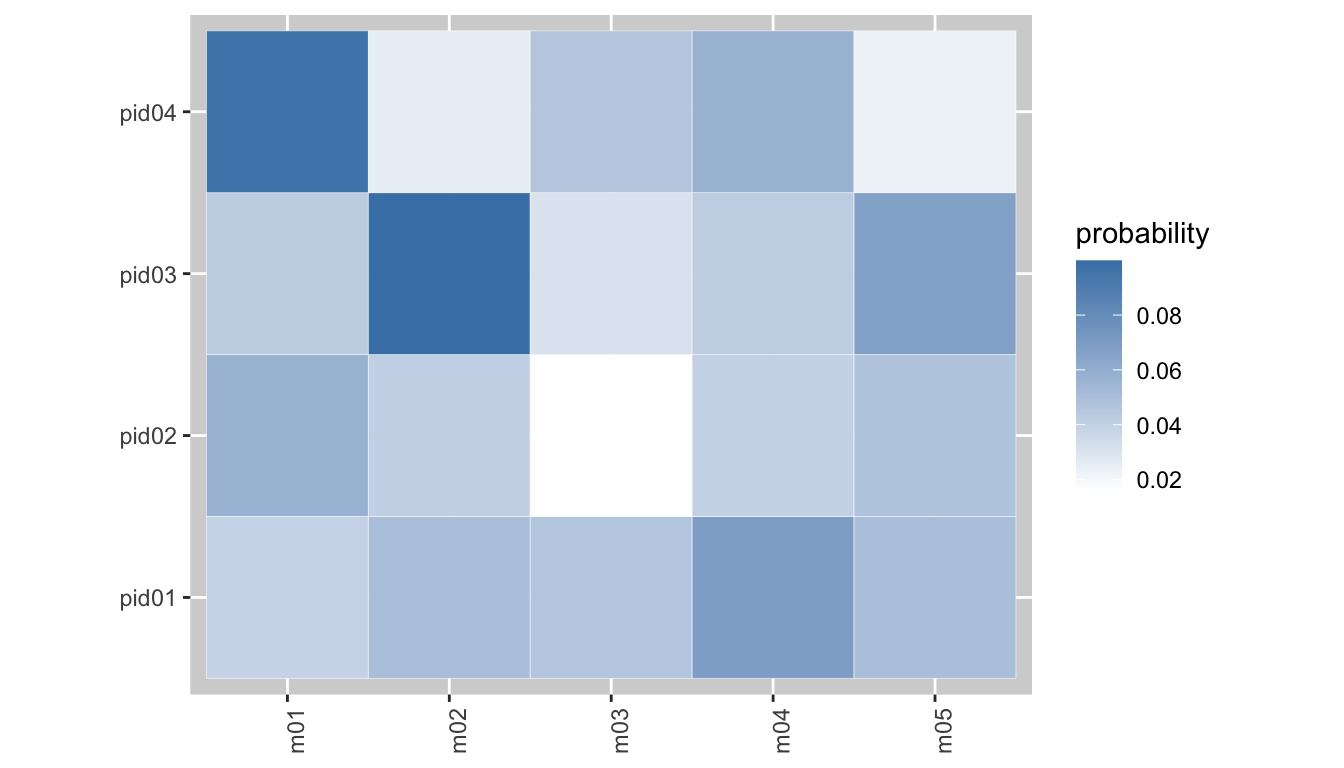
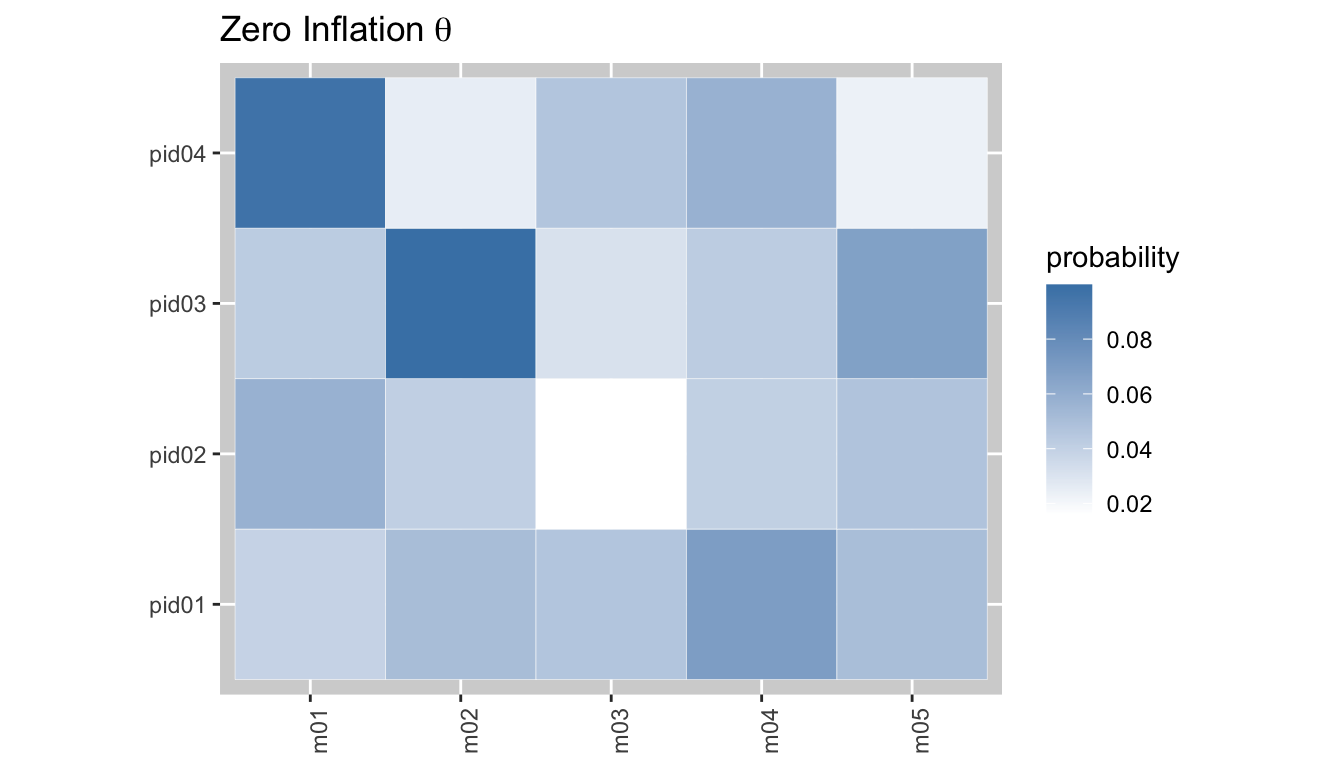
added RcppParallel and updated website

Changed region(s): [[0.0938, 0.0, 0.9062, 1.0]]

diff --git a/docs/index.html b/docs/index.html
@@ -84,15 +84,12 @@
 <a href="#goal" class="anchor"></a>Goal</h2>
 <p>Regression analysis with multivariate outcomes for mass cytometry experiments.</p>
 </div>
-<div id="reproducible-research" class="section level2">
-<h2 class="hasAnchor">
-<a href="#reproducible-research" class="anchor"></a>Reproducible Research</h2>
-<p>We created a simplified interactive R Markdown on binder for our <a href="https://arxiv.org/abs/1903.07976">paper</a>. You can reproduce our major findings, figures, and further explore the <code>rstan</code> object by starting an interactive RStudio session <a href="https://mybinder.org/v2/gh/ChristofSeiler/cytoeffect_binder/master?urlpath=rstudio">here</a>. The full analyses are available in <a href="http://christofseiler.github.io/cytoeffect/articles/">Articles</a>.</p>
-</div>
 <div id="installation" class="section level2">
 <h2 class="hasAnchor">
 <a href="#installation" class="anchor"></a>Installation</h2>
-<p>Our R package is available from github:</p>
+<p>Before you can install <code>cytoeffect</code>, you will need to install the package <code>rstan</code> including the C++ Toolchain. Here are instructions for all main platforms:</p>
+<p><a href="https://github.com/stan-dev/rstan/wiki/RStan-Getting-Started" class="uri">https://github.com/stan-dev/rstan/wiki/RStan-Getting-Started</a></p>
+<p>Then, you can install <code>cytoeffect</code>:</p>
 <div class="sourceCode" id="cb1"><pre class="r"><span class="fu"><a href="https://rdrr.io/r/utils/install.packages.html">install.packages</a></span>(<span class="st">"devtools"</span>)
 <span class="kw pkg">devtools</span><span class="kw ns">::</span><span class="fu"><a href="https://devtools.r-lib.org//reference/remote-reexports.html">install_github</a></span>(<span class="st">"ChristofSeiler/cytoeffect"</span>)</pre></div>
 </div>
@@ -134,7 +131,6 @@
 <li><a href="https://travis-ci.com/ChristofSeiler/cytoeffect"><img src="https://travis-ci.com/ChristofSeiler/cytoeffect.svg?branch=master" alt="build status"></a></li>
 <li><a href="https://github.com/ChristofSeiler/cytoeffect/actions"><img src="https://github.com/ChristofSeiler/cytoeffect/workflows/R-CMD-check/badge.svg" alt="R build status"></a></li>
 <li><a href="https://codecov.io/gh/ChristofSeiler/cytoeffect?branch=master"><img src="https://codecov.io/gh/ChristofSeiler/cytoeffect/branch/master/graph/badge.svg" alt="Codecov test coverage"></a></li>
-<li><a href="https://mybinder.org/v2/gh/ChristofSeiler/cytoeffect_binder/master?urlpath=rstudio"><img src="http://mybinder.org/badge_logo.svg" alt="binder"></a></li>
 </ul>
 </div>
 </div>

diff --git a/docs/articles/cytoeffect.html b/docs/articles/cytoeffect.html
@@ -76,7 +76,7 @@
       <h1 data-toc-skip>cytoeffect Workflow</h1>
                         <h4 class="author">Christof Seiler</h4>
             
-            <h4 class="date">2020-06-02</h4>
+            <h4 class="date">2020-06-03</h4>
       
       <small class="dont-index">Source: <a href="https://github.com/ChristofSeiler/cytoeffect/blob/master/vignettes/cytoeffect.Rmd"><code>vignettes/cytoeffect.Rmd</code></a></small>
       <div class="hidden name"><code>cytoeffect.Rmd</code></div>
@@ -133,8 +133,8 @@
 <span class="co">#&gt; </span>
 <span class="co">#&gt; SAMPLING FOR MODEL 'poisson' NOW (CHAIN 1).</span>
 <span class="co">#&gt; Chain 1: </span>
-<span class="co">#&gt; Chain 1: Gradient evaluation took 0.001384 seconds</span>
-<span class="co">#&gt; Chain 1: 1000 transitions using 10 leapfrog steps per transition would take 13.84 seconds.</span>
+<span class="co">#&gt; Chain 1: Gradient evaluation took 0.001352 seconds</span>
+<span class="co">#&gt; Chain 1: 1000 transitions using 10 leapfrog steps per transition would take 13.52 seconds.</span>
 <span class="co">#&gt; Chain 1: Adjust your expectations accordingly!</span>
 <span class="co">#&gt; Chain 1: </span>
 <span class="co">#&gt; Chain 1: </span>
@@ -151,9 +151,9 @@
 <span class="co">#&gt; Chain 1: Iteration: 1160 / 1200 [ 96%]  (Sampling)</span>
 <span class="co">#&gt; Chain 1: Iteration: 1200 / 1200 [100%]  (Sampling)</span>
 <span class="co">#&gt; Chain 1: </span>
-<span class="co">#&gt; Chain 1:  Elapsed Time: 104.653 seconds (Warm-up)</span>
-<span class="co">#&gt; Chain 1:                336.789 seconds (Sampling)</span>
-<span class="co">#&gt; Chain 1:                441.441 seconds (Total)</span>
+<span class="co">#&gt; Chain 1:  Elapsed Time: 109.32 seconds (Warm-up)</span>
+<span class="co">#&gt; Chain 1:                358.785 seconds (Sampling)</span>
+<span class="co">#&gt; Chain 1:                468.104 seconds (Total)</span>
 <span class="co">#&gt; Chain 1:</span></pre></body></html></div>
 <p>Plot marginal credible intervals.</p>
 <div class="sourceCode" id="cb3"><html><body><pre class="r"><span class="fu"><a href="https://rdrr.io/r/graphics/plot.html">plot</a></span>(<span class="no">fit</span>, <span class="kw">type</span> <span class="kw">=</span> <span class="st">"theta"</span>)</pre></body></html></div>

diff --git a/docs/news/index.html b/docs/news/index.html
@@ -125,7 +125,7 @@
 </li>
 <li>Added DiSTATIS plot <code><a href="../reference/plot_distatis.html">cytoeffect::plot_distatis()</a></code> for posterior samples</li>
 <li>Added DiSTATIS plot <code><a href="../reference/plot_distatis.html">cytoeffect::plot_distatis()</a></code> for parametric bootstrap</li>
-<li>New simplified vignettes on simulated data</li>
+<li>Replaced vignettes with simplified vignette on simulated data</li>
 <li>Removed function <code>cytoeffect::plot_mds()</code>
 </li>
 </ul>

diff --git a/docs/reference/plot.cytoeffect_poisson.html b/docs/reference/plot.cytoeffect_poisson.html
@@ -137,7 +137,7 @@ using <code><a href='poisson_lognormal.html'>poisson_lognormal</a></code></p></t
     <tr>
       <th>type</th>
       <td><p>A string with the parameter to plot:
-<code>type = "beta"</code>, <code>type = "sigma"</code>, or <code>type = "Cor"</code></p></td>
+<code>type = "theta"</code>, <code>type = "beta"</code>, <code>type = "sigma"</code>, or <code>type = "Cor"</code></p></td>
     </tr>
     <tr>
       <th>selection</th>

diff --git a/README.md b/README.md
@@ -5,7 +5,6 @@
 [![build status](https://travis-ci.com/ChristofSeiler/cytoeffect.svg?branch=master)](https://travis-ci.com/ChristofSeiler/cytoeffect)
 [![R build status](https://github.com/ChristofSeiler/cytoeffect/workflows/R-CMD-check/badge.svg)](https://github.com/ChristofSeiler/cytoeffect/actions)
 [![Codecov test coverage](https://codecov.io/gh/ChristofSeiler/cytoeffect/branch/master/graph/badge.svg)](https://codecov.io/gh/ChristofSeiler/cytoeffect?branch=master)
-[![binder](http://mybinder.org/badge_logo.svg)](https://mybinder.org/v2/gh/ChristofSeiler/cytoeffect_binder/master?urlpath=rstudio)
 
 <!-- badges: end -->
 
@@ -13,15 +12,15 @@
 
 Regression analysis with multivariate outcomes for mass cytometry experiments.
 
-## Reproducible Research 
-
-We created a simplified interactive R Markdown on binder for our [paper](https://arxiv.org/abs/1903.07976). You can reproduce our major findings, figures, and further explore the `rstan` object by starting an interactive RStudio session [here](https://mybinder.org/v2/gh/ChristofSeiler/cytoeffect_binder/master?urlpath=rstudio). The full analyses are available in [Articles](http://christofseiler.github.io/cytoeffect/articles/).
-
 ## Installation
 
-Our R package is available from github:
+Before you can install `cytoeffect`, you will need to install the package `rstan` including the C++ Toolchain. Here are instructions for all main platforms:
 
-``` r
+https://github.com/stan-dev/rstan/wiki/RStan-Getting-Started
+
+Then, you can install `cytoeffect`:
+
+```r
 install.packages("devtools")
 devtools::install_github("ChristofSeiler/cytoeffect")
 ```

diff --git a/NEWS.md b/NEWS.md
@@ -3,7 +3,7 @@
 * Added maximum composite likelihood estimator ``cytoeffect::poisson_lognormal_mcle()``
 * Added DiSTATIS plot `cytoeffect::plot_distatis()` for posterior samples
 * Added DiSTATIS plot `cytoeffect::plot_distatis()` for parametric bootstrap
-* New simplified vignettes on simulated data
+* Replaced vignettes with simplified vignette on simulated data
 * Removed function `cytoeffect::plot_mds()`
 
 # cytoeffect 0.2.0
